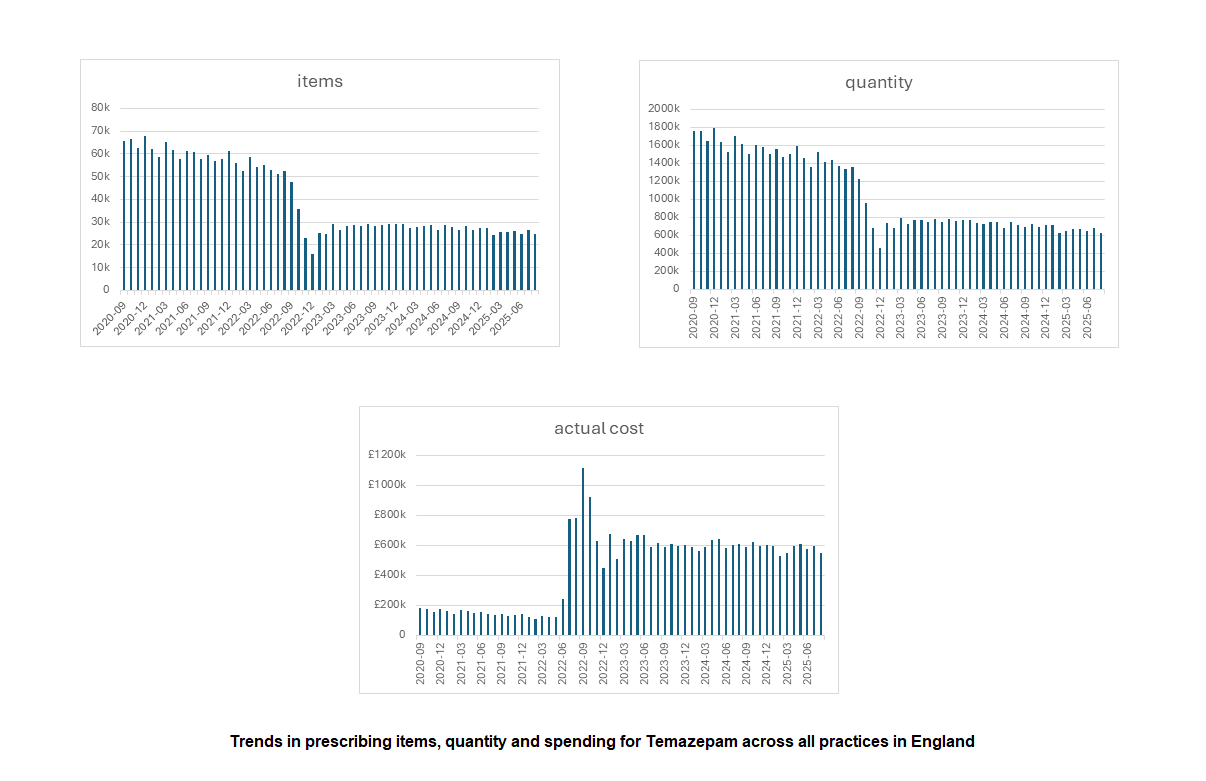
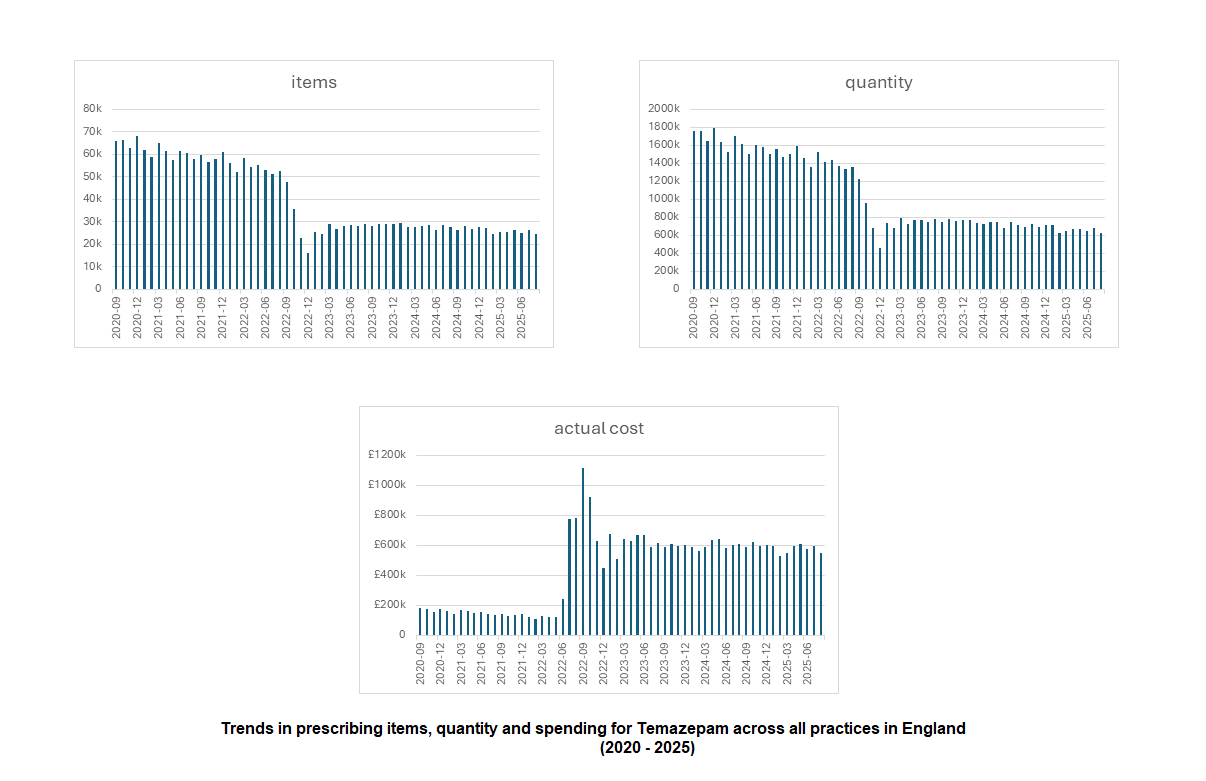
Update website content and layout

diff --git a/posts2.html b/posts2.html
@@ -85,7 +85,7 @@
       <div class="col-md-6">
         <p class="mt-0"> <b>Figures</b></p>
         <img src="/assets/img/Temazepam_items_quantity_actual cost_all.png" alt="Figure" class="responsive-img">
-        <p class="small-text">Figure : Trends in prescribing items, quantity and spending for Temazepam across all practices in England </p>
+        <p class="small-text">Figure : Trends in prescribing items, quantity and spending for Temazepam across all practices in England (2020 - 2025) </p>
       </div>
      
         <nav class="d-inline-flex mt-2 mt-md-0 ms-md-auto"> <p> <b><a class="me-3 py-2 text-decoration-none" href="/posts"> Previous Post </a> </b></p>  </nav>
